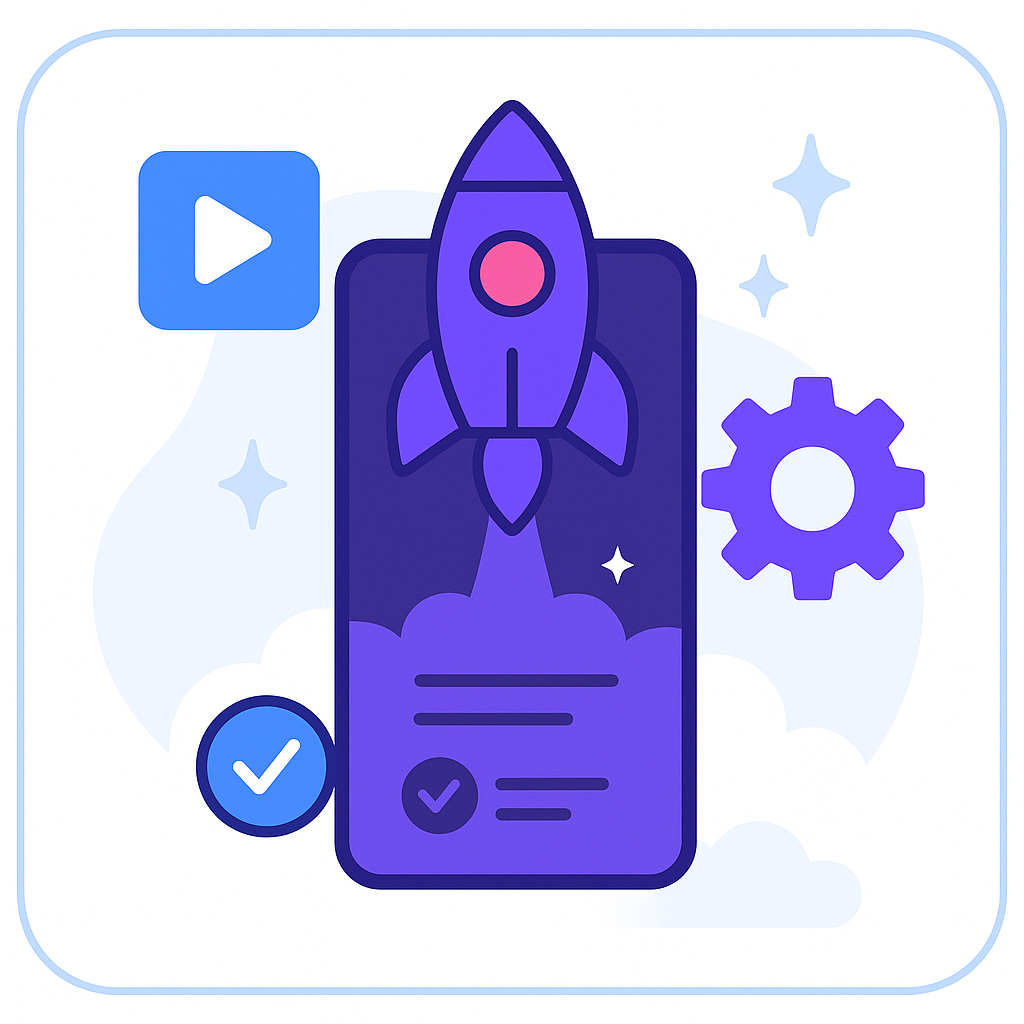
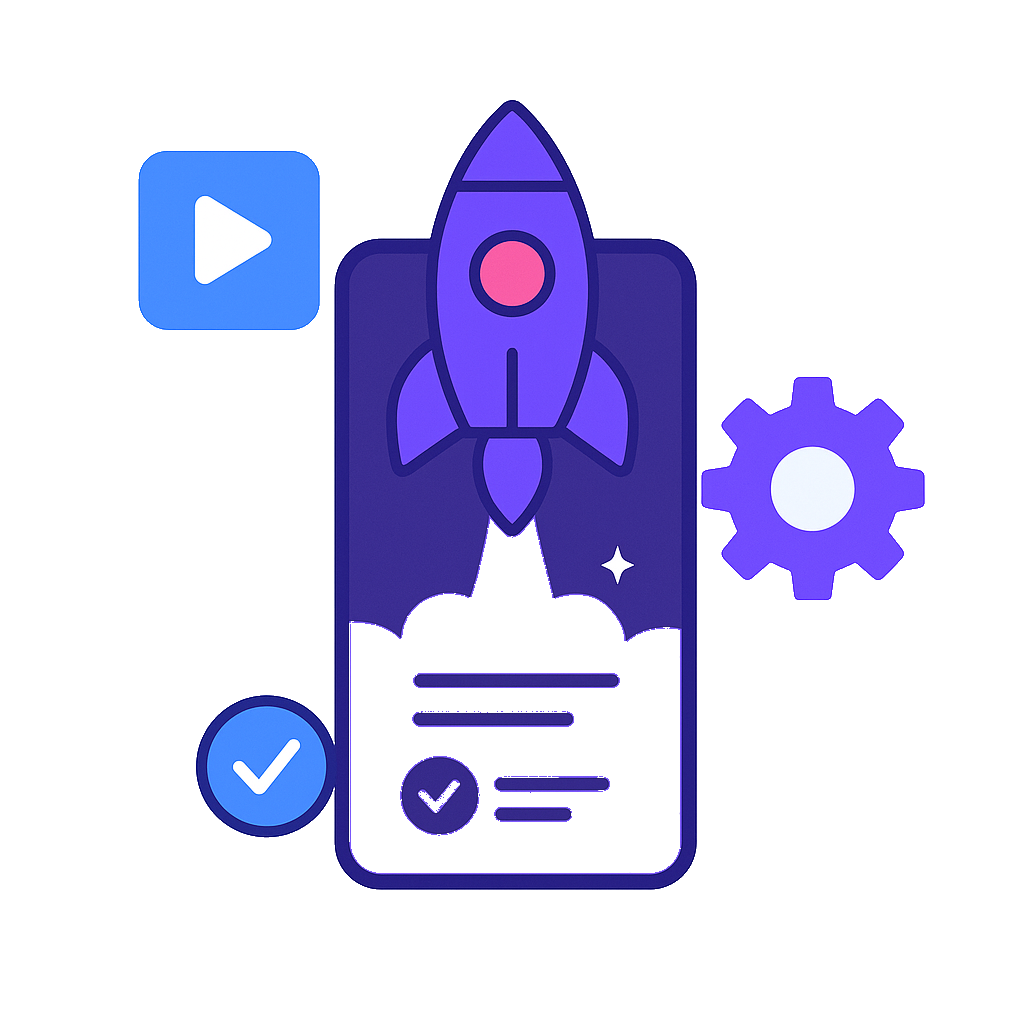
version inicial index

diff --git a/index.html b/index.html
@@ -39,6 +39,10 @@
   flex-direction: column;
   gap: 40px;
 }
+.py-80 {
+  padding-top: 80px !important;
+  padding-bottom: 80px !important;
+}
 
 .workflow-step {
   display: flex;
@@ -57,9 +61,8 @@
   padding: 12px 20px;
   border-radius: 50px;
 }
-
 .gradient-bg {
-  background: linear-gradient(90deg, #ee0979, #ff6a00);
+    background: linear-gradient(90deg, #f15c92, #9168d9);
 }
 
 .step-content {
@@ -68,7 +71,7 @@
 }
 
 .step-icon img {
-  width: 60px;
+  width: 115px;
   height: auto;
 }
 
@@ -680,7 +683,8 @@
           <p class="step-text">Nos reunimos contigo para comprender tus objetivos, requisitos y expectativas.</p>
         </div>
         <div class="step-icon">
-          <img src="icons/icon-reunion.svg" alt="Icono Reunión">
+            
+          <img src="12step.png" alt="Icono Reunión">
         </div>
       </div>
 
@@ -692,7 +696,7 @@
           <p class="step-text">Colaboramos en identificar y documentar las necesidades de tu proyecto.</p>
         </div>
         <div class="step-icon">
-          <img src="/icons/icon-requisitos.svg" alt="Icono Requisitos">
+          <img src="23step.png" alt="Icono Requisitos">
         </div>
       </div>
 
@@ -704,7 +708,7 @@
           <p class="step-text">Creamos una propuesta detallada que se ajusta a tus requerimientos.</p>
         </div>
         <div class="step-icon">
-          <img src="/icons/icon-propuesta.svg" alt="Icono Propuesta">
+          <img src="step56.png" alt="Icono Propuesta">
         </div>
       </div>
 
